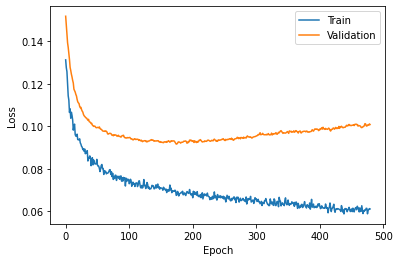
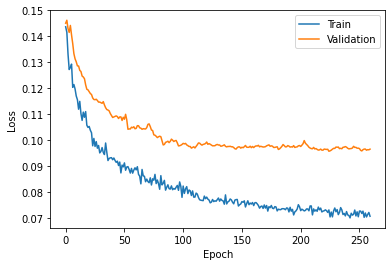
Integrate with Deeplift
I now get a scores vector with an entry for each of the columns. Need to
look at which columns get which scores.

Then dick with scaling, especially since remove BatchNorm makes this
perform terribly. Also, use_bias is necessary even with BatchNorm.

Deeplift only works with tfv1, so had to change a bunch of little stupid
things.

Changed region(s): [[0.0, 0.0, 1.0, 0.916], [0.4898, 0.916, 0.6122, 0.9771]]

diff --git a/model.py b/model.py
@@ -9,10 +9,10 @@ from sklearn.model_selection import train_test_split
 import sklearn.preprocessing as preprocess
 import pandas as pd
 import tensorflow as tf
-import tensorflow.keras.layers as layers
-from tensorflow.keras.models import Sequential
-import tensorflow.keras.optimizers as optimizers
-from tensorflow.keras.callbacks import TensorBoard
+import keras.layers as layers
+from keras.models import Sequential
+import keras.optimizers as optimizers
+from keras.callbacks import TensorBoard
 
 import matplotlib.pyplot as plt
 import IPython.display
@@ -23,7 +23,7 @@ import sys
 
 # https://keras.io/getting_started/faq/#how-can-i-obtain-reproducible-results-using-keras-during-development
 np.random.seed(345)
-tf.random.set_seed(345)
+tf.set_random_seed(345)
 random.seed(345)
 
 # %%
@@ -71,22 +71,18 @@ print("training on %d columns" % len(train_X.columns), list(train_X.columns))
 
 #%%
 
-# Keras
 model = Sequential()
 
-model.add(layers.InputLayer(input_shape=train_X.shape[1]))
+# Switching from LRelu to Relu made validation performance a little worse and training slower.
 
-model.add(layers.Dense(60, activation=None, kernel_initializer='he_normal'))
+model.add(layers.Dense(60, activation='relu', kernel_initializer='he_normal', use_bias=True, input_shape=(train_X.shape[1],)))
 model.add(layers.BatchNormalization())
-model.add(layers.LeakyReLU(alpha=0.01))
 
-model.add(layers.Dense(20, activation=None, kernel_initializer='he_normal'))
+model.add(layers.Dense(20, activation='relu', kernel_initializer='he_normal', use_bias=True))
 model.add(layers.BatchNormalization())
-model.add(layers.LeakyReLU(alpha=0.01))
 
-model.add(layers.Dense(20, activation=None, kernel_initializer='he_normal'))
+model.add(layers.Dense(20, activation='relu', kernel_initializer='he_normal', use_bias=True))
 model.add(layers.BatchNormalization())
-model.add(layers.LeakyReLU(alpha=0.01))
 
 model.add(layers.Dense(1, activation='linear'))
 #model.add(layers.Dense(1, activation='linear', W_constraint=nonneg()))
@@ -108,27 +104,50 @@ start_time = time.time()
 
 tensor_board = TensorBoard(histogram_freq=1)
 
+np.random.seed(345)
+tf.set_random_seed(123)
+random.seed(345)
+
 history_object = model.fit(
     train_X,
     train_y,
-    epochs=500,
+    epochs=300,
     batch_size=64,
     verbose=2,
     #callbacks=[tensor_board],
     shuffle=True,
-    validation_data=(val_X, val_y))
+    validation_data=(val_X, val_y)
+    )
 print("%d seconds to train the model" % (time.time() - start_time))
 
-#model.save("cnn_model.h5")
+os.remove("model.h5")
+model.save("model.h5")
 
 # %%
 
 # Plot training & validation loss values
-omit_first = 20
-plt.plot(history_object.history['mse'][omit_first:])
-plt.plot(history_object.history['val_mse'][omit_first:])
+omit_first = 40
+plt.plot(history_object.history['mean_squared_error'][omit_first:])
+plt.plot(history_object.history['val_mean_squared_error'][omit_first:])
 plt.ylabel('Loss')
 plt.xlabel('Epoch')
 plt.legend(['Train', 'Validation'], loc='upper right')
 plt.savefig('cnn_loss.png', bbox_inches='tight')
 plt.show()
+
+#%%
+import deeplift
+from deeplift.conversion import kerasapi_conversion as kc
+
+reference = np.full(shape=(train_X.shape[1],), fill_value=0.5)
+
+deeplift_model = kc.convert_model_from_saved_files("model.h5")
+deeplift_contribs_func = deeplift_model.get_target_contribs_func(
+                            find_scores_layer_idx=0,
+                            target_layer_idx=-1)
+#%%
+scores = deeplift_contribs_func(task_idx=0,
+                                         input_data_list=[train_X.iloc[0].to_numpy().reshape(1,29)],
+                                         input_references_list=[reference.reshape(1,29)],
+                                         batch_size=1,
+                                         progress_update=1)
